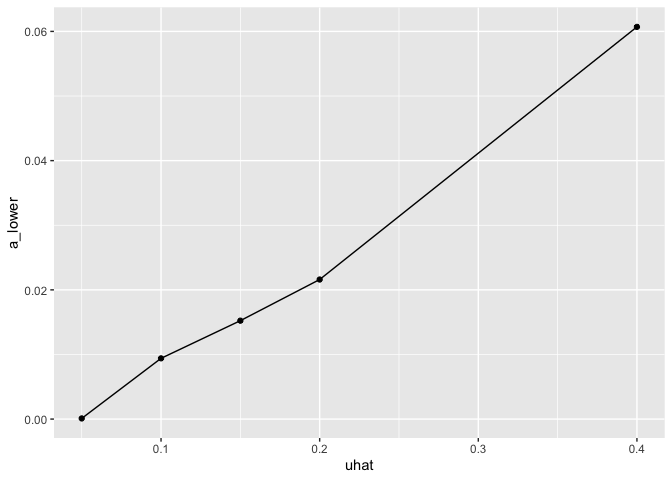
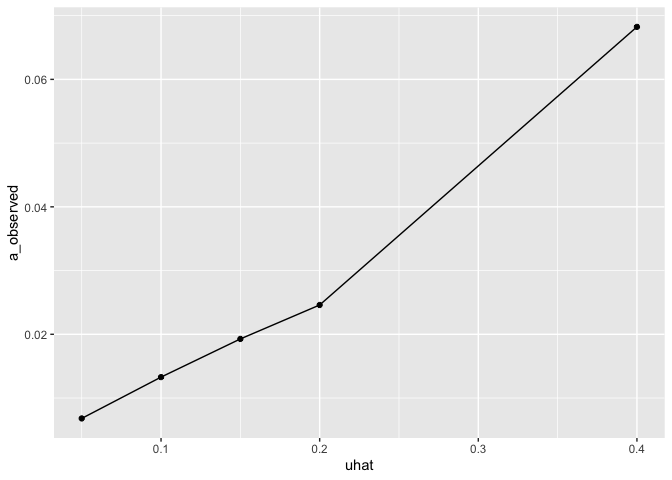
deltaobs

diff --git a/cluster/u_hat_comparisons/april12-uhat_comparison.md b/cluster/u_hat_comparisons/april12-uhat_comparison.md
@@ -195,6 +195,8 @@ library(tidyverse)
 ``` r
 uhats = c(0.05,0.1,0.15 ,0.2, 0.4)
 a_mins = c(0.0001,0.0094,0.01523,0.0216,0.0607)
+a_observed = c(0.00679798, 0.01328283, 0.01927273, 0.0246,0.06823636 )
+delta_observed = c(0.000238392, 0.00062167, 0.000880852, 0.000967741,0.000576682)
 a_maxs = c(0.01,0.0165,0.0223,0.03,0.07884)
 delta_mins = c(-(9.84e-06), 0.000308603,0.000584299,0.000797672,0.000555901)
 delta_maxs = c(0.000573111,0.000893806,0.00108,0.001219991,0.000590642)
@@ -202,8 +204,10 @@ delta_maxs = c(0.000573111,0.000893806,0.00108,0.001219991,0.000590642)
 transitions = tibble(uhat = uhats,
                      a_lower = a_mins,
                      a_upper = a_maxs,
+                     a_observed = a_observed,
                      delta_lower = delta_mins,
-                     delta_upper = delta_maxs)
+                     delta_upper = delta_maxs,
+                     delta_observed = delta_observed)
 ```
 
 ### uhat vs the upper value for a (above which P(increase) is always 100%)
@@ -259,6 +263,29 @@ plot
 \*But this equation only involves SLiM results, not the delta or AUC
 equation at all.
 
+### uhat vs a_observed?
+
+``` r
+u_vs_a_obs = ggplot(transitions_edit, aes(x = uhat, y = a_observed)) + geom_point() + geom_line()
+
+u_vs_a_obs
+```
+
+![](april12-uhat_comparison_files/figure-gfm/unnamed-chunk-16-1.png)<!-- -->
+Similar results to uhat vs a_upper – appears linear for uhat=5% to
+uhat=20%, then increases more from uhat=20% to uhat=40% (not sure if
+this is due to lack of data here though)
+
+### uhat vs delta_observed?
+
+``` r
+u_vs_delta_obs = ggplot(transitions_edit, aes(x = uhat, y = delta_observed)) + geom_point() + geom_line()
+
+u_vs_delta_obs
+```
+
+![](april12-uhat_comparison_files/figure-gfm/unnamed-chunk-17-1.png)<!-- -->
+
 ### uhat vs the lower value for a (below which P(increase) is always 100%)
 
 ``` r
@@ -267,7 +294,7 @@ u_vs_a_lower = ggplot(transitions_edit, aes(x=uhat,y=a_lower)) + geom_point() + 
 u_vs_a_lower
 ```
 
-![](april12-uhat_comparison_files/figure-gfm/unnamed-chunk-16-1.png)<!-- -->
+![](april12-uhat_comparison_files/figure-gfm/unnamed-chunk-18-1.png)<!-- -->
 Not very linear
 
 ### uhat vs delta_upper
@@ -278,7 +305,7 @@ u_vs_delta_upper = ggplot(transitions_edit, aes(x=uhat,y=delta_upper)) + geom_po
 u_vs_delta_upper
 ```
 
-![](april12-uhat_comparison_files/figure-gfm/unnamed-chunk-17-1.png)<!-- -->
+![](april12-uhat_comparison_files/figure-gfm/unnamed-chunk-19-1.png)<!-- -->
 Weird that the slope becomes negative between uhat=20% and uhat=40%?
 
 ## delta equation as a function of a and u_hat
@@ -361,3 +388,19 @@ The increase in a_pred increases at a faster rate than the increase in
 uhat – note the difference in the x-intercept between uhat=5% and
 uhat=10% vs uhat=40% and uhat=45% – once uhat gets pretty high, a bigger
 increase in *a* is needed in order for the drive to spread..
+
+## Conclusions
+
+-   The a_predicted is always lower than the a_observed.
+-   Predictions get worse as uhat increases (it’s especially bad for
+    uhat=40%)
+-   The delta value at which P(increase)=100% increases with uhat (a
+    greater increase in AUC is needed for the drive to spread as the
+    frequency threshold gets higher).
+    -   But an exception is uhat=40% – this transition is very sharp and
+        occurs at a very low delta value compared to the other runs’.
+        There could be an issue of not enough data in this region
+        though.
+-   The threshold for a (at which delta=0) is expected to increase
+    non-linearly with uhat (as uhat increases, a larger increase in a is
+    needed). But in the actual data, the a_observed
